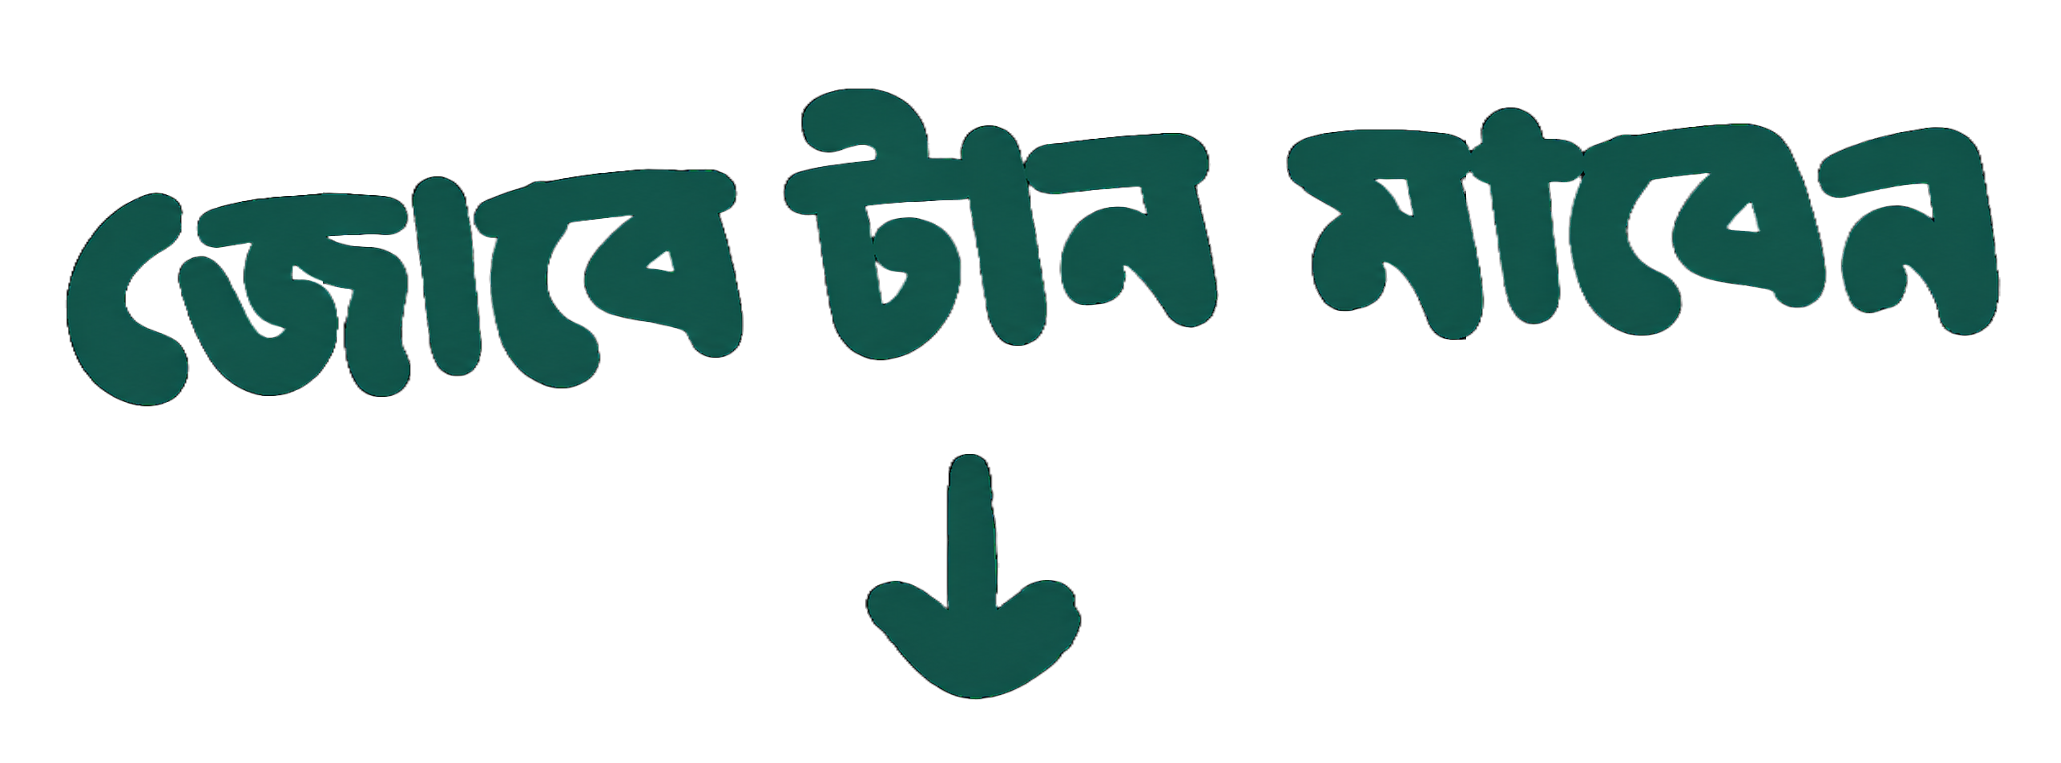
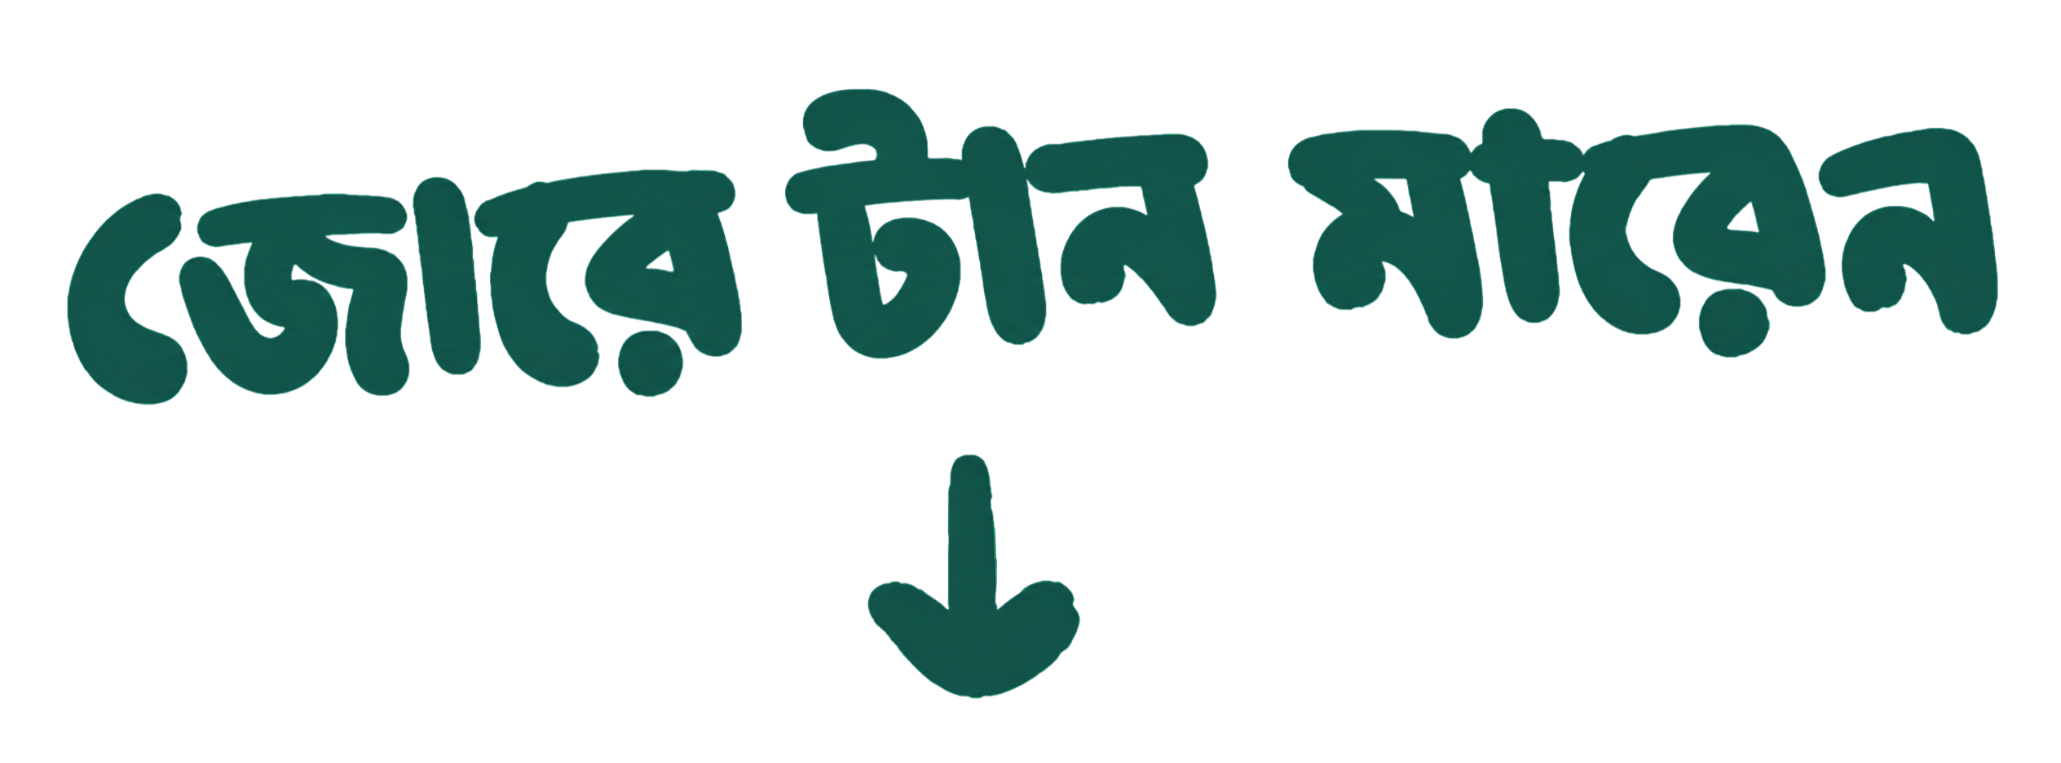
fix: lever upper-text issue

diff --git a/src/index.css b/src/index.css
@@ -294,6 +294,7 @@
   left: 50%;
   transform: translateX(-50%);
   width: 140px;
+  max-width: none;
   height: auto;
   opacity: 0.55;
   pointer-events: none;
@@ -313,8 +314,7 @@
    trigger) inside a zoomed containing context on small screens. */
 
 /* Tablet portrait (<=1024) & phone (<=768): scrolling body */
-@media (max-width: 1024px) and (orientation: portrait),
-  (max-width: 768px) {
+@media (max-width: 1024px) and (orientation: portrait), (max-width: 768px) {
   body {
     overflow-y: auto;
     justify-content: flex-start;
